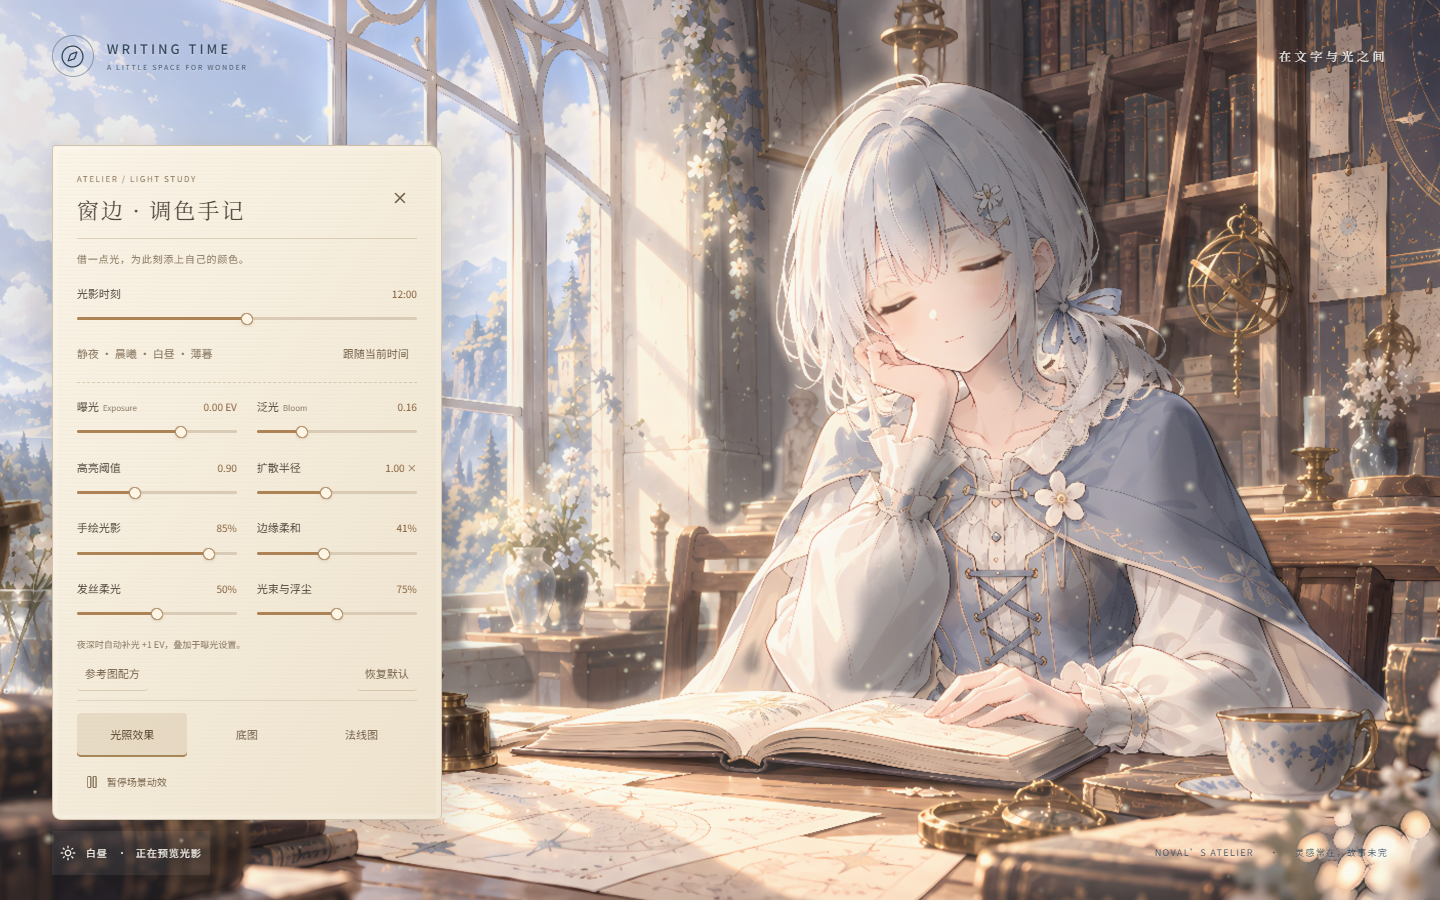
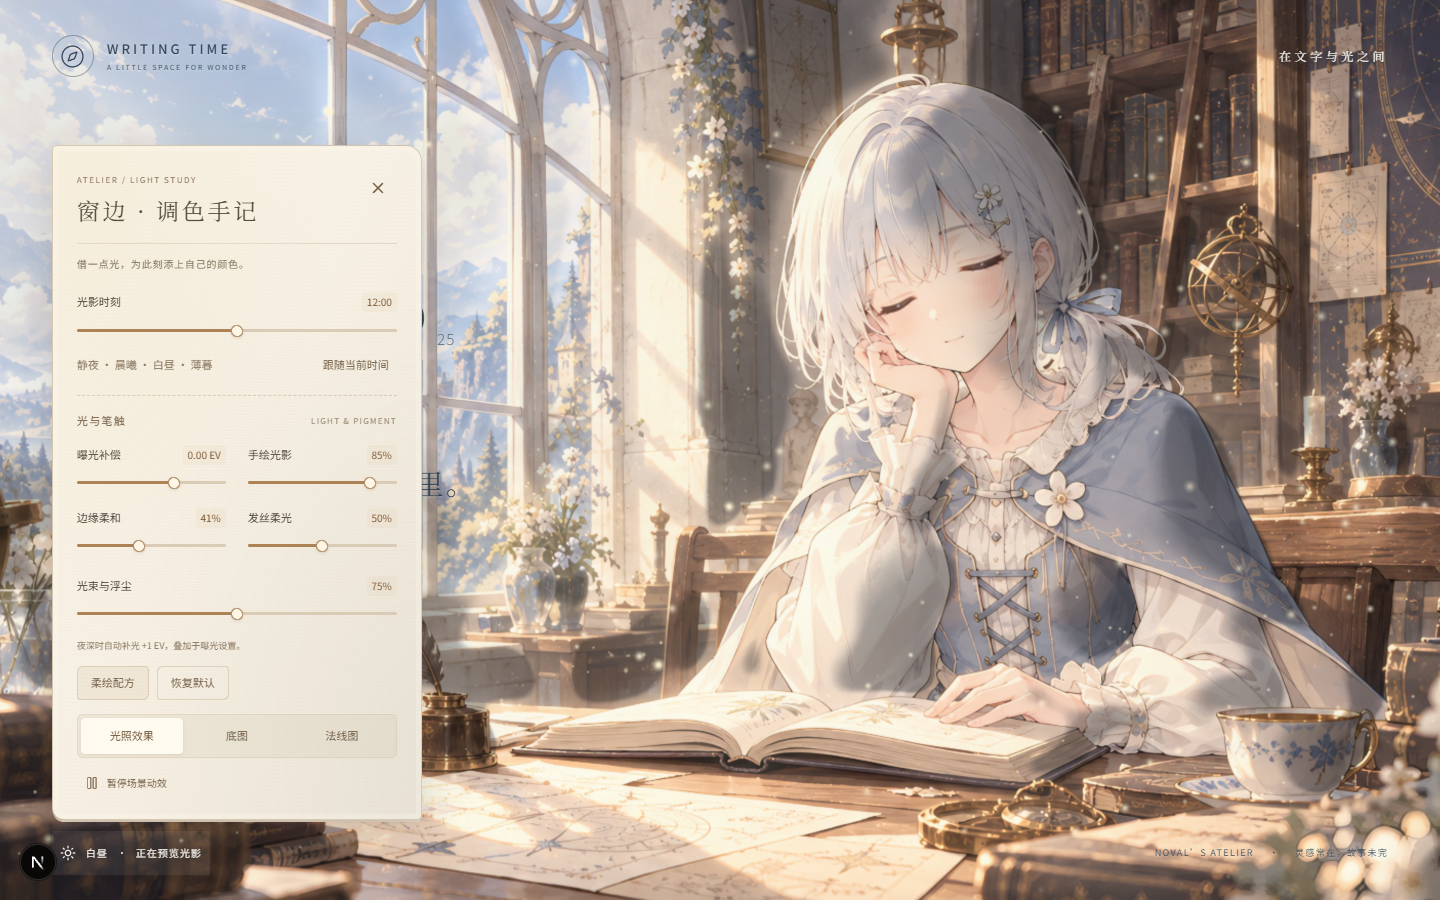
主页的微小改动

diff --git a/components/home/DreamHome.tsx b/components/home/DreamHome.tsx
@@ -28,9 +28,6 @@ export function DreamHome() {
   const [softness, setSoftness] = useState(.4);
   const [sheen, setSheen] = useState(.5);
   const [exposure, setExposure] = useState(0);
-  const [bloom, setBloom] = useState(.16);
-  const [threshold, setThreshold] = useState(.9);
-  const [radius, setRadius] = useState(1);
   const [styleStrength, setStyleStrength] = useState(.85);
   const [view, setView] = useState(0);
   const [atmosphereStrength, setAtmosphereStrength] = useState(.75);
@@ -76,7 +73,7 @@ export function DreamHome() {
       }}>
       <div className="dream-scene" aria-hidden="true">
         <Image src="/assets/home/enhance-noval-observatory.webp" alt="" fill priority sizes="(max-width: 760px) 180vh, 100vw" className="dream-art" />
-        <RelightScene bloom={bloom} threshold={threshold} radius={radius} styleStrength={styleStrength} hour={hour} softness={softness} sheen={sheen} exposure={exposure} view={view} moving={moving} atmosphere={atmosphereStrength} />
+        <RelightScene bloom={.16} threshold={.9} radius={1} styleStrength={styleStrength} hour={hour} softness={softness} sheen={sheen} exposure={exposure} view={view} moving={moving} atmosphere={atmosphereStrength} />
       </div>
 
       <header className="dream-header">
@@ -109,18 +106,16 @@ export function DreamHome() {
             <p className="light-notebook-intro">借一点光，为此刻添上自己的颜色。</p>
             <LightingSlider id="hour" label="光影时刻" value={hour} min={0} max={23.99} step={.05} display={`${String(Math.floor(hour)).padStart(2,"0")}:${String(Math.floor(hour%1*60)).padStart(2,"0")}`} onChange={setPreview} />
             <div className="light-time-actions"><span>静夜 · 晨曦 · 白昼 · 薄暮</span><button onClick={() => setPreview(null)} disabled={preview === null}>跟随当前时间</button></div>
+            <div className="light-section-caption"><span>光与笔触</span><span>LIGHT & PIGMENT</span></div>
             <div className="light-parameter-grid">
-              <LightingSlider id="exposure" label="曝光" english="Exposure" value={exposure} min={-2} max={1} step={.01} display={`${exposure.toFixed(2)} EV`} onChange={setExposure} />
-              <LightingSlider id="bloom" label="泛光" english="Bloom" value={bloom} min={0} max={.6} step={.01} display={bloom.toFixed(2)} onChange={setBloom} />
-              <LightingSlider id="threshold" label="高亮阈值" value={threshold} min={.3} max={2} step={.01} display={threshold.toFixed(2)} onChange={setThreshold} />
-              <LightingSlider id="radius" label="扩散半径" value={radius} min={.25} max={2} step={.01} display={`${radius.toFixed(2)} ×`} onChange={setRadius} />
+              <LightingSlider id="exposure" label="曝光补偿" value={exposure} min={-2} max={1} step={.01} display={`${exposure.toFixed(2)} EV`} onChange={setExposure} />
               <LightingSlider id="style" label="手绘光影" value={styleStrength} min={0} max={1} step={.01} display={`${Math.round(styleStrength*100)}%`} onChange={setStyleStrength} />
               <LightingSlider id="softness" label="边缘柔和" value={softness} min={0} max={1} step={.01} display={`${Math.round(softness*100)}%`} onChange={setSoftness} />
               <LightingSlider id="sheen" label="发丝柔光" value={sheen} min={0} max={1} step={.01} display={`${Math.round(sheen*100)}%`} onChange={setSheen} />
               <LightingSlider id="atmosphere" label="光束与浮尘" value={atmosphereStrength} min={0} max={1.5} step={.05} display={`${Math.round(atmosphereStrength*100)}%`} onChange={setAtmosphereStrength} />
             </div>
             <p className="light-exposure-note">夜深时自动补光 +1 EV，叠加于曝光设置。</p>
-            <div className="light-presets"><button onClick={() => {setExposure(-.22);setBloom(.05);setThreshold(1.05);setRadius(.71);setStyleStrength(1);setSoftness(1);setSheen(.46);}}>参考图配方</button><button onClick={() => {setExposure(0);setBloom(.16);setThreshold(.9);setRadius(1);setStyleStrength(.85);setSoftness(.4);setSheen(.5);setAtmosphereStrength(.75);}}>恢复默认</button></div>
+            <div className="light-presets"><button onClick={() => {setExposure(-.22);setStyleStrength(1);setSoftness(1);setSheen(.46);}}>柔绘配方</button><button onClick={() => {setExposure(0);setStyleStrength(.85);setSoftness(.4);setSheen(.5);setAtmosphereStrength(.75);}}>恢复默认</button></div>
             <div className="dream-view-modes" role="group" aria-label="光照对比">{["光照效果", "底图", "法线图"].map((label, index) => <button key={label} aria-pressed={view === index} onClick={() => setView(index)}>{label}</button>)}</div>
             <button className="dream-motion-toggle" onClick={() => setMoving(!moving)}>{moving ? <Pause size={14} /> : <Play size={14} />}{moving ? "暂停场景动效" : "开启场景动效"}</button>
           </section>}

diff --git a/app/dream-home.css b/app/dream-home.css
@@ -144,3 +144,25 @@
 .dream-light-controls .dream-view-modes button[aria-pressed="true"] { background: #b4966930; color: #55432d; box-shadow: inset 0 -2px #a78758; }
 .dream-light-controls .dream-motion-toggle { margin-top: 3px; font-size: 10px; }
 @media(max-width: 420px) { .dream-light-controls { padding: 18px 16px 10px; } .dream-light-controls .light-parameter-grid { column-gap: 14px; } .light-slider-label small { display: none; } }
+
+
+/* Refined, compact watercolor notebook controls. */
+.dream-light-controls { width: min(370px,calc(100vw - 32px)); padding: 24px 24px 14px; border-color: #bda98c88; border-radius: 5px 16px 5px 12px; background: radial-gradient(ellipse at 0% 0%,#d5b77624,transparent 55%),radial-gradient(ellipse at 100% 90%,#9cabb21a,transparent 55%),repeating-linear-gradient(0deg,#ad947005 0px,#ad947005 1px,transparent 1px,transparent 4px),linear-gradient(120deg,#fcf7ed,#f0e7d8); box-shadow: 0 18px 45px #30261f30,0 3px 0 -1px #e7dbc7,inset 0 0 0 5px #fffaf044; }
+.dream-light-controls .light-notebook-heading { border-bottom: 1px solid #ae977840; padding-bottom: 13px; }
+.light-notebook-heading h2 { font-size: 23px; letter-spacing: .12em; color: #544b3e; }
+.light-notebook-heading > button { align-self: flex-start; min-width: 36px; min-height: 36px; }
+.light-notebook-intro { margin: 12px 0 20px; color: #82745f; }
+.dream-light-controls .light-section-caption { display: flex; justify-content: space-between; align-items: center; margin: 8px 0 15px; padding-top: 16px; border-top: 1px dashed #b29b7866; color: #776348; font-size: 11px; letter-spacing: .12em; }
+.light-section-caption > span:last-child { font-size: 8px; letter-spacing: .16em; color: #9b8972; }
+.dream-light-controls .light-parameter-grid { border: 0; padding: 0; gap: 7px 22px; }
+.light-parameter-grid > .light-slider:last-child { grid-column: 1 / -1; padding-top: 5px; }
+.light-slider-label output { padding: 2px 5px; border-radius: 4px; background: #d4bd951a; color: #84603d; }
+.dream-light-controls input[type="range"] { height: 32px; margin-bottom: 2px; }
+.dream-light-controls .light-presets { justify-content: flex-start; gap: 8px; margin: 13px 0 4px; }
+.dream-light-controls .light-presets button { border: 1px solid #b99f7655; padding: 6px 13px; border-radius: 6px 4px 6px 3px; }
+.dream-light-controls .light-presets button:first-child { background: #b59a6c1c; }
+.dream-light-controls .dream-view-modes { background: #9b876014; border: 1px solid #b7a18030; border-radius: 6px; padding: 3px; gap: 3px; margin-top: 14px; }
+.dream-light-controls .dream-view-modes button { min-height: 36px; }
+.dream-light-controls .dream-view-modes button[aria-pressed="true"] { background: #fffaf0; color: #705536; box-shadow: 0 1px 4px #8c74592b; }
+.light-exposure-note { margin-top: 6px; font-size: 9px; line-height: 1.7; }
+@media(max-width:420px) { .dream-light-controls { padding: 19px 18px 11px; } }

diff --git a/docs/home-design.md b/docs/home-design.md
@@ -96,3 +96,4 @@ Edit target: supplied illustration. Make a precisely registered closed-eye anima
 
 
 背景版本回退：根据用户反馈，静态底图与 WebGL 色图均已切回上一版 enhance-noval-observatory.webp（3344×1882）。final 超分素材保留备份，当前页面不再引用；参数面板、光照与动画保持不变。
+`n面板精简：删除泛光、高亮阈值、扩散半径的自定义状态与控件，渲染保持默认 0.16 / 0.9 / 1。配方仅影响剩余可见参数。面板改为更紧凑的纸张手记，强化标题、分组、数值与分段按钮；光束浮尘独占整行。
